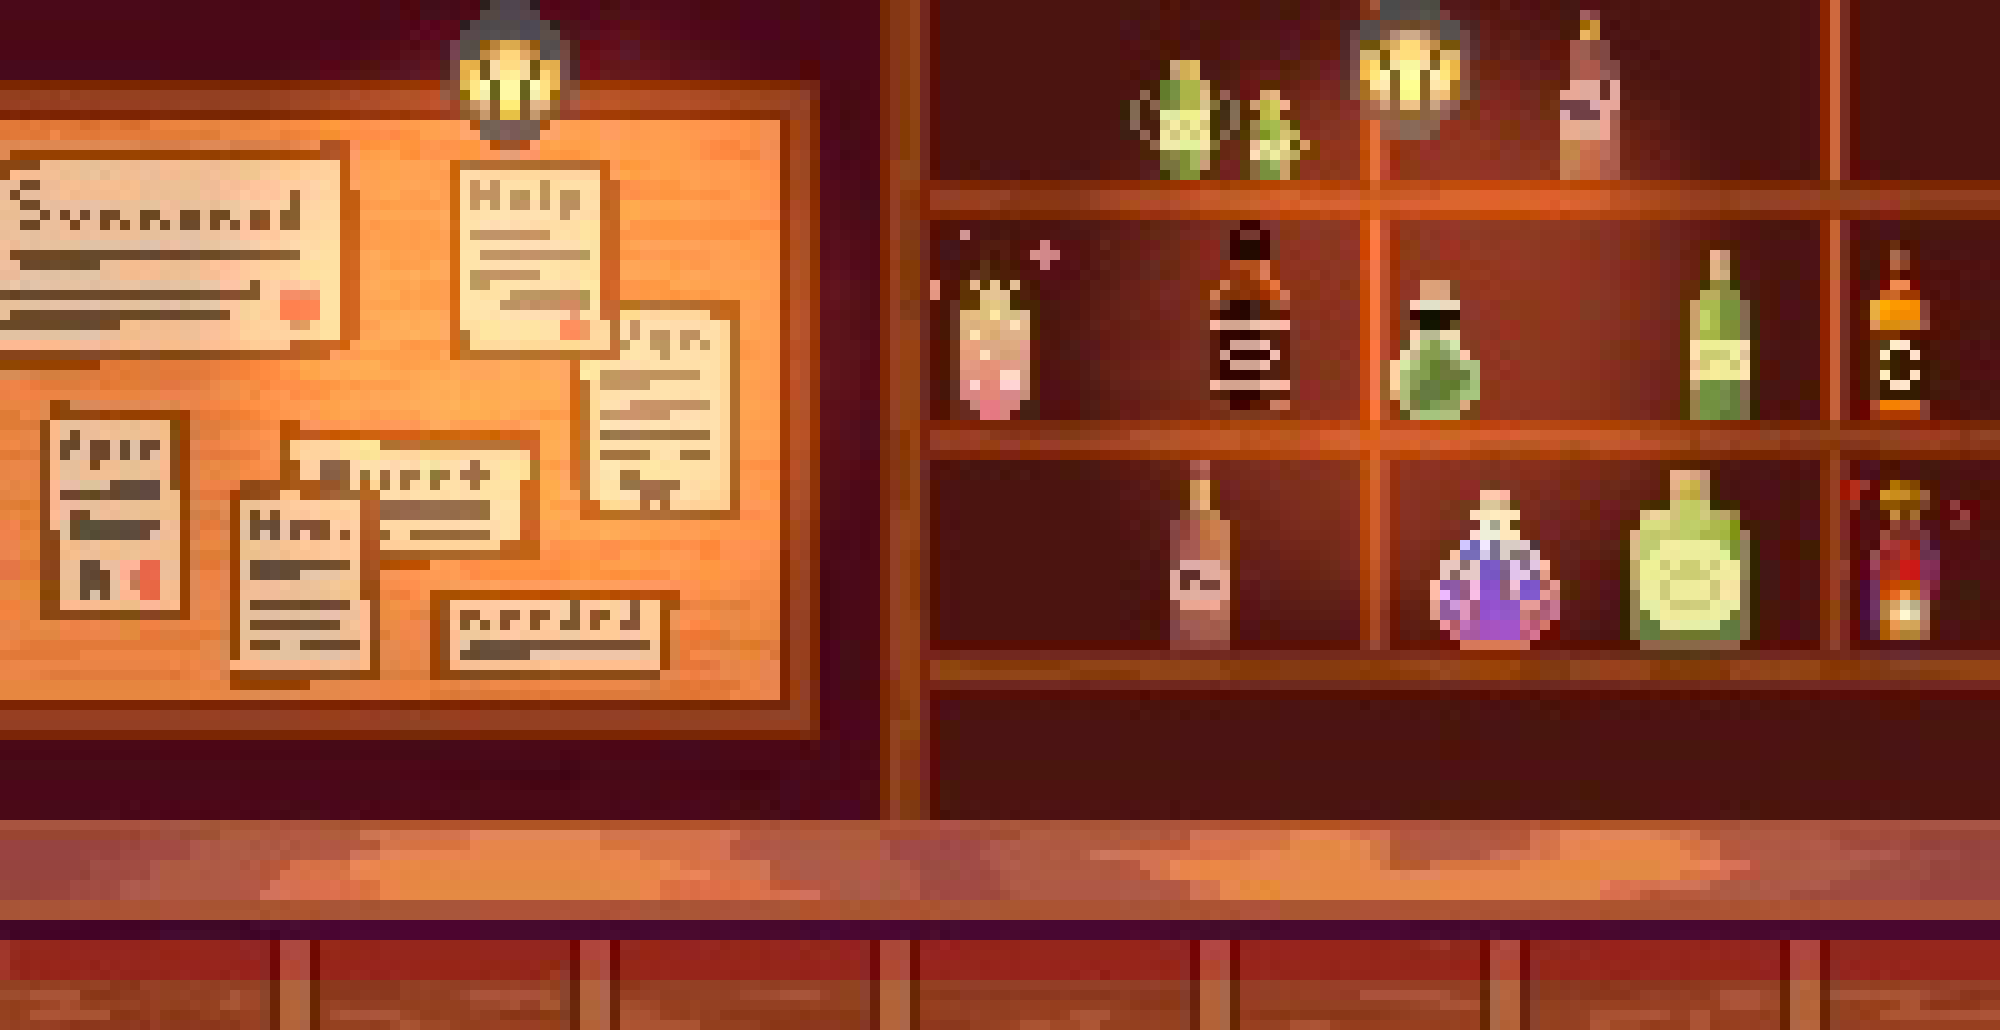
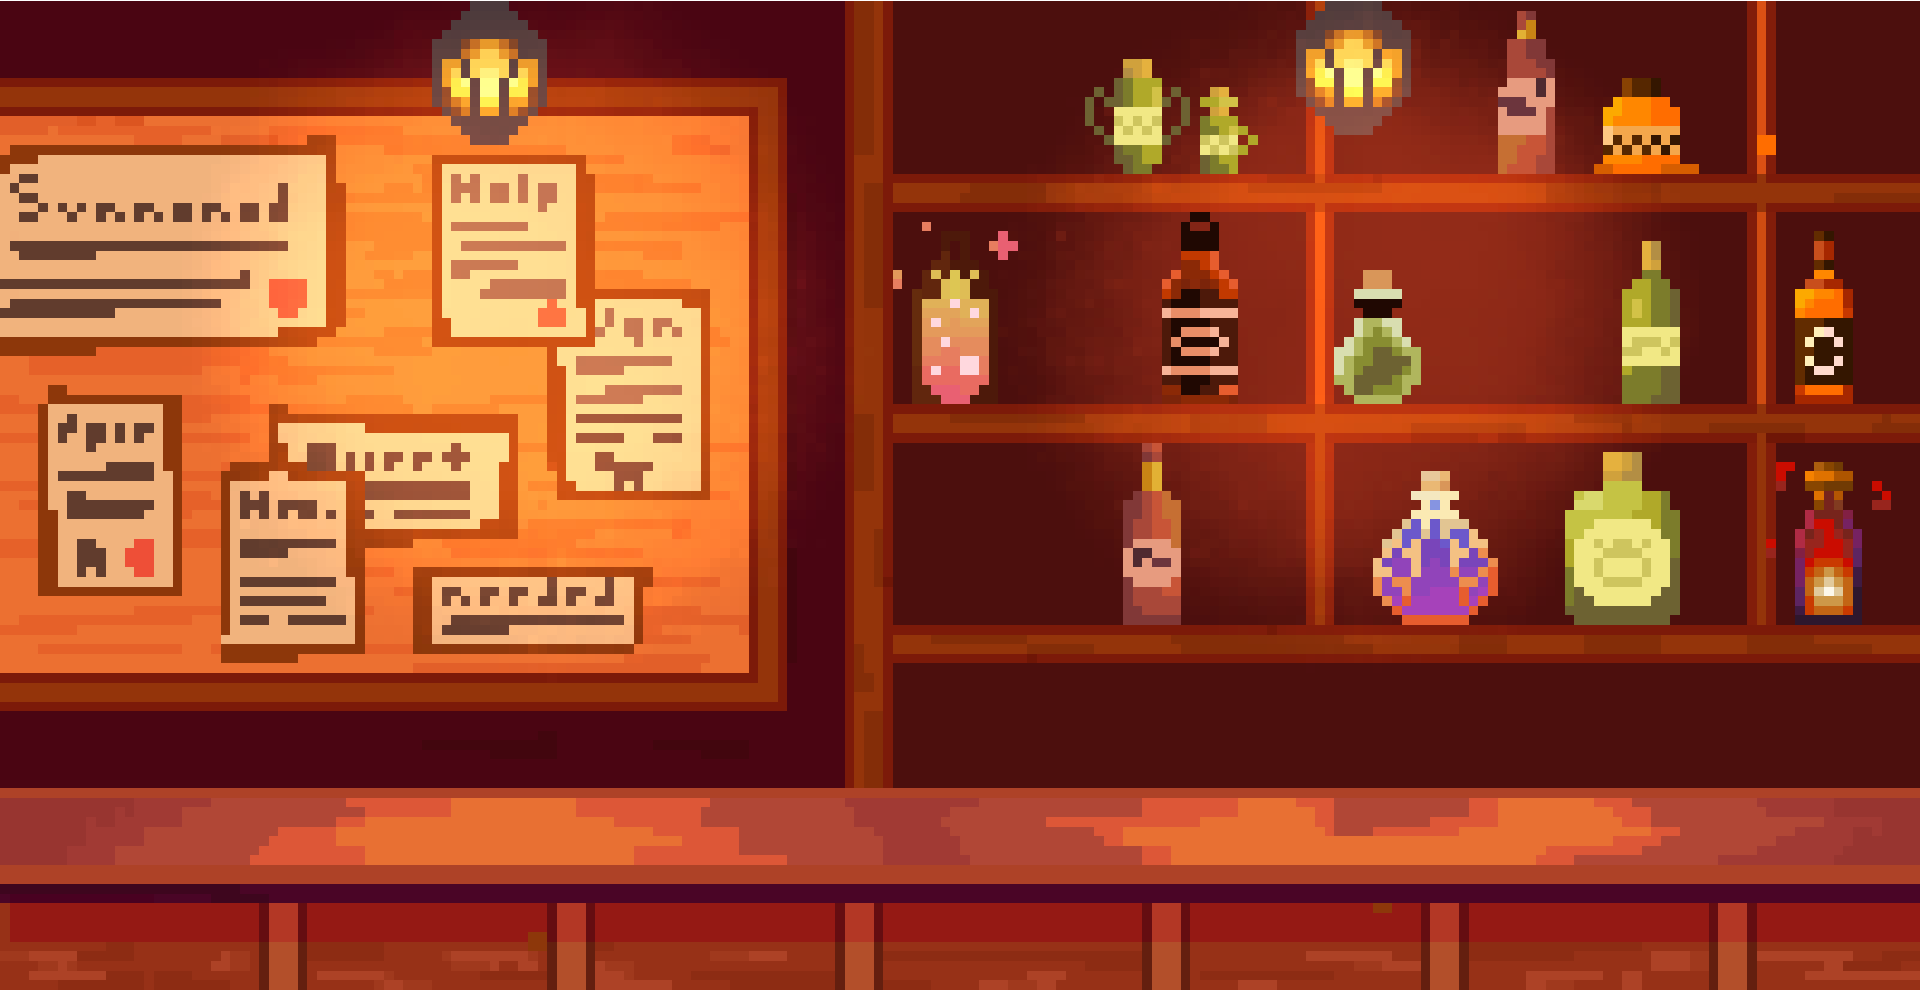
added dark mode

diff --git a/packages/proto/public/index.html b/packages/proto/public/index.html
@@ -22,11 +22,32 @@
   </head>
   <body
     class="bodyIndex"
-    style="background-image: url('./assets/backdrop.png')"
   >
+  <script>
+    const page = document.body;
+
+    page.addEventListener("dark-mode:toggle", (event) => {
+      const checked = event.detail.checked;
+      page.classList.toggle("dark-mode", checked);
+    });
+
+    function toggleDarkMode(target, checked) {
+     const customEvent = new CustomEvent(
+       "dark-mode:toggle", {
+        bubbles: true,
+        detail: { checked },
+        });
+
+        target.dispatchEvent(customEvent);
+    }
+  </script>
     <div class="indexInformation">
       <header>
         <h1 class="titleIndex">Fantasy Tavern</h1>
+        <label class="darkmodeButton" onchange="toggleDarkMode(event.target, event.target.checked)">
+          <input type="checkbox" autocomplete="off" />
+          Dark mode
+        </label>
       </header>
 
       <section class="htmlIndex">

diff --git a/packages/server/dist/pages/drink.js b/packages/server/dist/pages/drink.js
@@ -41,7 +41,7 @@ class DrinksPage {
   render() {
     return (0, import_renderPage.default)({
       body: this.renderBody(),
-      stylesheets: ["/styles/destination.css"],
+      stylesheets: ["/styles/page.css"],
       styles: [
         import_server.css`main.page {
             --page-grids: 8;
@@ -52,10 +52,10 @@ class DrinksPage {
       ],
       scripts: [
         `import { define } from "@calpoly/mustang";
-        import { AccommodationElement } from "/scripts/accommodation.js";
+        import { MenuElement } from "/scripts/menuAccommodation.js";
 
         define({
-            "blz-accommodation": AccommodationElement
+            "menu-accommodation": MenuElement
         });`
       ]
     });

diff --git a/packages/server/src/pages/drink.ts b/packages/server/src/pages/drink.ts
@@ -15,7 +15,7 @@ export class DrinksPage {
 render() {
     return renderPage({
         body: this.renderBody(),
-        stylesheets: ["/styles/destination.css"],
+        stylesheets: ["/styles/page.css"],
         styles: [
         css`main.page {
             --page-grids: 8;
@@ -26,10 +26,10 @@ render() {
         ],
         scripts: [
         `import { define } from "@calpoly/mustang";
-        import { AccommodationElement } from "/scripts/accommodation.js";
+        import { MenuElement } from "/scripts/menuAccommodation.js";
 
         define({
-            "blz-accommodation": AccommodationElement
+            "menu-accommodation": MenuElement
         });`
         ]
     });

diff --git a/packages/proto/public/styles/page.css b/packages/proto/public/styles/page.css
@@ -5,7 +5,17 @@
   background-size: cover;
   background-position: center;
   background-repeat: no-repeat;
-  /* opacity: 0.4; */
+  background-image: url("../assets/backdrop.png")
+}
+
+.bodyIndex.dark-mode {
+  background-image: url("../assets/backdrop_DM4.png")
+}
+
+.darkmodeButton {
+  display: flex;
+  align-items: center;
+  justify-content: center;
 }
 
 .indexInformation {
